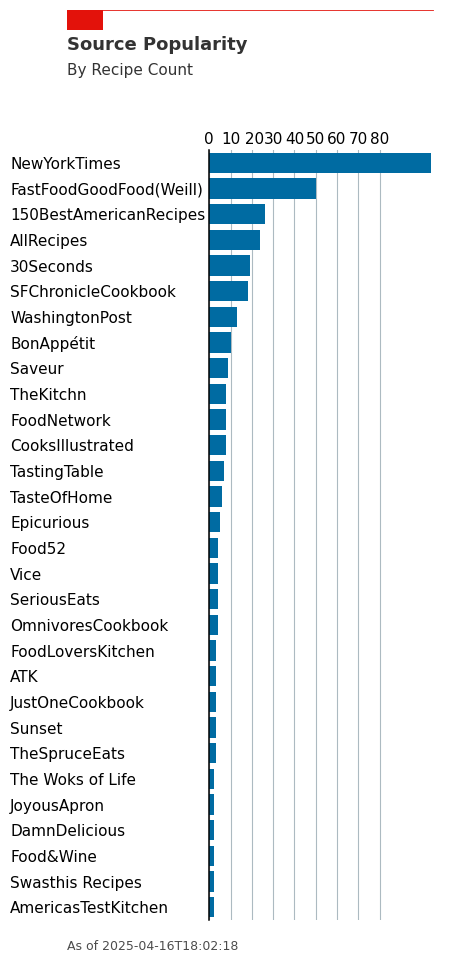
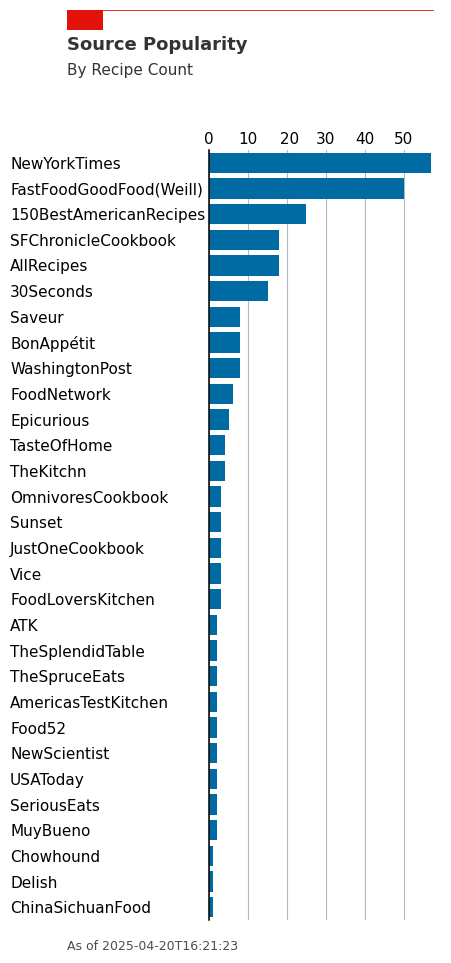
Add final edits obo segregated meta vs. file storage environments.

diff --git a/app/templates/main/hx/edit_field_file_.html b/app/templates/main/hx/edit_field_file_.html
@@ -18,8 +18,8 @@
 		<span class="file-icon"><i class="fas fa-upload"></i></span>
 	      </span>
 	      <span id="file-name" name="file-name" class="file-name is-large mr-4 form-input">
-		# if document.file_:
-		{{ document.file_.fileName|default("", true) }}
+		# if document.filename:
+		{{ document.filename|default("", true) }}
 		# endif
 	      </span>
 	    </label>

diff --git a/app/blueprints/main/operations.py b/app/blueprints/main/operations.py
@@ -8,7 +8,9 @@ from collections.abc import Callable
 from datetime import datetime
 from functools import reduce
 
+from botocore.exceptions import ClientError
 from bson.objectid import ObjectId
+from flask import current_app
 from mongoengine.context_managers import switch_collection
 from mongoengine.queryset.queryset import QuerySet
 from mongoengine.queryset.visitor import QCombination
@@ -104,102 +106,24 @@ def _search_by_tag(user: User, search: str) -> list[ObjectId]:
     return [doc.id for doc in partials]
 
 
-def update_doc_from_form(request, document: Documents) -> tuple[Documents, bool]:
-    """Update the document attributes from the flask form in the request, returning the doc and changed flag."""
-    form_document_attrs = (
-        (None, "title"),
-        (None, "notes"),
-        (None, "source"),
-        (None, "url_"),
-        ("to_list", "tags"),
-        ("to_int", "quality"),
-        ("to_int", "complexity"),
-    )
-
-    # Get Flask's packaging of the inbound form
-    form = request.form
-
-    # Start on the assumption that NO attribute have actually changed...
-    changed = False
-
-    # Handle all the "simple" attributes on a generic basis..
-    for conversion, attr in form_document_attrs:
-        curr_value = getattr(document, attr)  # Value in the current document, ie. in db.
-        form_value = form.get(attr)  # Value coming back from the form.
-        if conversion == "to_int":
-            form_value = int(form_value)
-        elif conversion == "to_list":
-            form_value = [x.strip().title() for x in form_value.split(",")]
-
-        ################################################################################
-        # Case 1: Have both a form_value and current document value
-        #         -> Check for match and update if necessary
-        ################################################################################
-        if form_value and curr_value:
-            if form_value != curr_value:
-                changed = True
-                setattr(document, attr, form_value)
-                log.debug(f"{attr=} was updated to {form_value} (from {curr_value})")
-
-        ################################################################################
-        # Case 2: Have a new form_value but not current document value
-        #         -> Update document with new value.
-        ################################################################################
-        elif form_value and not curr_value:
-            changed = True
-            setattr(document, attr, form_value)
-            log.debug(f"{attr=} was newly set to {form_value}")
-
-        ################################################################################
-        # Case 3: Don't have a new form_value but do have a current document value
-        #         -> Update document value to None.
-        ################################################################################
-        elif not form_value and curr_value:
-            changed = True
-            setattr(document, attr, None)
-            log.debug(f"{attr=} was cleared")
-
-        # Case 4: Don't have a new form_value and don't have a current document value
-        #         -> Do Nothing!
-        else:
-            assert not form_value and not curr_value, f"Sorry, unhandled case: {form_value=} {curr_value=}"
-
-    #################
-    # Special cases #
-    #################
-    # Last cooked date onto list.."
-    if form.get("last_cooked"):
-        dt_last_cooked = datetime.strptime(form.get("last_cooked"), "%Y-%m-%d")
-        if dt_last_cooked not in document.dates_cooked:
-            log.debug(f"attr=last_cooked was appended to with {dt_last_cooked}")
-            document.dates_cooked.append(dt_last_cooked)
-            changed = True
-
-    # Did we get a new file to upload?
-    if file := request.files["file_"]:
-        filename = secure_filename(file.filename)  # Important! cleanse to remove bad characters!
-        mime_type, _ = mimetypes.guess_type(filename)
-        log.debug(
-            f"Saving a new file: {filename=} with {mime_type=}!"
-            if document.file_
-            else f"Replacing existing file {document.file_.filename=} with: {filename=}!"
-        )
-        document.file_.replace(file, fileName=filename, contentType=mime_type)
-        changed = True
-
-    return document, changed
-
-
-def delete_document(user: User, id_: str) -> None:
+def delete_document(app, user: User, id_: str) -> None:
     """Delete the document with specified id for the specified user."""
     with switch_collection(Documents, Documents.as_user(user)) as user_documents:
         document = user_documents.objects(id=id_)[0]
-        if document.file_:
-            document.file_.delete()
+        s_doc_id = str(document.id)
+        try:
+            storage_handle = app.config["STORAGE_FILE"]
+            storage_bucket = app.config["storage_file_bucket"]
+            args = {"Bucket": storage_bucket, "Key": s_doc_id}
+            storage_handle.head_object(**args)
+            storage_handle.delete_object(**args)
+        except ClientError as e:
+            if e.response["Error"]["Code"] != "404":
+                log.error(f"Error deleting object {s_doc_id} from bucket {storage_bucket}: {e}!")
         document.delete()
 
 
-def update_document_attribute(document: Documents, field: str, request) -> [Documents, str | None]:
+def update_document_attribute(app, document: Documents, field: str, request) -> [Documents, str | None]:
     """Update the specified field attribute of the document request.form the specified request.form."""
     error_msg = None
     match field:
@@ -223,10 +147,14 @@ def update_document_attribute(document: Documents, field: str, request) -> [Docu
         # Special Handling: File upload
         ##############################
         case "file_":
+            # Yes, there's no error handling here....sue me
             file = request.files["file_"]
-            filename = secure_filename(file.filename)  # Important! cleanse to remove bad characters!
-            mime_type, _ = mimetypes.guess_type(filename)
-            document.file_.replace(file, fileName=filename, contentType=mime_type)
+            document.filename = secure_filename(file.filename)  # Important! cleanse to remove bad characters!
+            document.filesize = get_file_size(file)
+            document.mimetype = mimetypes.guess_type(document.filename)[0]
+            app.config["STORAGE_FILE"].upload_fileobj(
+                file.stream, current_app.config["storage_file_bucket"], str(document.id)
+            )
 
         ##############################
         # Special Attribute: List of string obo Tag
@@ -292,6 +220,22 @@ def _update_document_dates_cooked(document: Documents, request) -> [Documents, s
 ################################################################################
 # Utility methods
 ################################################################################
+def get_file_size(file_handle) -> int:
+    # Remember the current position
+    current_position = file_handle.tell()
+
+    # Seek to the end of the file
+    file_handle.seek(0, 2)  # 2 means "from the end"
+
+    # Get the position of the end of the file (which is the size)
+    size = file_handle.tell()
+
+    # Return to the original position
+    file_handle.seek(current_position)
+
+    return size
+
+
 def _sort(user: User, documents: list[Documents]) -> tuple[list[Documents], dict]:
     """Return both a sorted list of documents by current cookies and sort-indicator status."""
     sort: Sort = Sort.factory_from_user(user)  # Unpack the sort info from user state.

diff --git a/app/blueprints/main/routes.py b/app/blueprints/main/routes.py
@@ -179,27 +179,26 @@ def route_view_document(doc_id: str, url: str = "main.render_display") -> Respon
     with switch_collection(Documents, Documents.as_user(fl.current_user)) as user_documents:
         document = user_documents.objects(id=doc_id)[0]
 
-    if document.file_:
-        file_contents = document.file_.read()
-        contents: BytesIO = BytesIO(file_contents)
-        name: str = f"{doc_id}.pdf"
-        mimetype: str = document.file_.contentType
-        return send_file(contents, download_name=name, mimetype=mimetype)
+    # Do we think we have a document to display?
+    if not document.filename:
+        # No, do we have a url instead?
+        if document.url_:
+            # Yes, go there..
+            return redirect(document.url_)
+        # Otherwise, stay here..
+        return redirect(url_for(url))
 
-    else:
-        storage = current_app.config["STORAGE_FILE"]
-        bucket_name: str = current_app.config["storage_file_bucket"]
-        contents: BytesIO = BytesIO()
-        download_name: str = f"{doc_id}.pdf"
-        try:
-            storage.download_fileobj(bucket_name, doc_id, contents)
-            contents.seek(0)
-            return send_file(contents, download_name=download_name, mimetype=document.mimetype)
-        except ClientError:
-            if document.url_:
-                return redirect(document.url_)
-            # Really give up!
-            log.error("Sorry, document without either PDF file OR a link?")
+    # Ok, we *SHOULD* have a file, pull it and see..
+    storage = current_app.config["STORAGE_FILE"]
+    bucket_name: str = current_app.config["storage_file_bucket"]
+    contents: BytesIO = BytesIO()
+    download_name: str = f"{doc_id}.pdf"
+    try:
+        storage.download_fileobj(bucket_name, doc_id, contents)
+        contents.seek(0)
+        return send_file(contents, download_name=download_name, mimetype=document.mimetype)
+    except ClientError:
+        log.error(f"Sorry, unable to pull document {document.filename}[{document.id!s}] from storage.")
 
     return redirect(url_for(url))
 
@@ -210,7 +209,7 @@ def route_view_document(doc_id: str, url: str = "main.render_display") -> Respon
 @log_route(path="/document/delete")
 def render_delete_document(url: str = "main.render_display") -> Response:
     """Delete the specified Document."""
-    delete_document(fl.current_user, request.values["doc_id"])
+    delete_document(current_app, fl.current_user, request.values["doc_id"])
     return redirect(url_for(url))
 
 
@@ -222,7 +221,7 @@ def render_delete_documents(url: str = "main.render_display") -> Response:
     """Delete the specified Documents."""
     doc_ids = request.values["doc_ids"]
     for doc_id in doc_ids.split("|"):
-        delete_document(fl.current_user, doc_id)
+        delete_document(current_app, fl.current_user, doc_id)
     return redirect(url_for(url))
 
 
@@ -282,7 +281,7 @@ def hx_edit_field(field: str, doc_id: str) -> Response:
         document = user_documents.objects(id=doc_id)[0]
 
         # Update the specified field in the document based on the inbound request, get doc and optional error msg
-        document, error_msg = update_document_attribute(document, field, request)
+        document, error_msg = update_document_attribute(current_app, document, field, request)
 
     return_args = {
         "document": document,

diff --git a/app/cli/transfer_pdfs_to_wasabi.py b/app/cli/transfer_pdfs_to_wasabi.py
@@ -2,12 +2,15 @@
 """Import a set of pdf's, in 2 passes."""
 
 import argparse
+import mimetypes
 import os
 import time
 from pathlib import Path
 
 import boto3
+from botocore.exceptions import ClientError
 from mongoengine.context_managers import switch_collection
+from werkzeug.utils import secure_filename
 
 import app.constants as c
 from app import create_app
@@ -21,8 +24,8 @@ def get_wasabi_connection(app):
         "s3",
         endpoint_url="https://s3.us-west-1.wasabisys.com",
         region_name="us-east-1",
-        aws_access_key_id=app.config["wasabi_access_key_id"],
-        aws_secret_access_key=app.config["wasabi_secret_access_key"],
+        aws_access_key_id=app.config["storage_file_access_key_id"],
+        aws_secret_access_key=app.config["storage_file_secret_access_key"],
     )
     print("Connected to wasabi...")
     return wasabi
@@ -49,22 +52,40 @@ def get_pdf_from_mongo(document: Documents) -> Path:
 
 def push_file_to_wasabi(wasabi, document: Documents, file_path: Path) -> bool:
     # Open file in binary mode and read all content
-    bucket_name = "coctione-libri-development"
-    object_key = file_path.stem
-    print(f"Pushing {file_path} to wasabi...")
+    storage_bucket = "coctione-libri-development"
+    print(f"Pushing  {file_path} to wasabi.")
     try:
-        wasabi.upload_file(file_path, bucket_name, object_key)
+        wasabi.upload_file(file_path, storage_bucket, str(document.id))
+
+        document.filename = file_path.stem
+        document.filesize = os.path.getsize(file_path)
+        document.mimetype = mimetypes.guess_type(secure_filename(file_path.stem))[0]
+        document.save()
         return True
     except Exception as exc:
         print(f"Upload failed: {exc=}")
         return False
 
 
+def file_in_wasabi(wasabi, document: Documents) -> bool:
+    storage_bucket = "coctione-libri-development"
+    args = {"Bucket": storage_bucket, "Key": str(document.id)}
+    try:
+        wasabi.head_object(**args)
+        return True
+    except ClientError:
+        return False
+
+
 def transfer_document(wasabi, document: Documents) -> bool:
     """..."""
     if file_path := get_pdf_from_mongo(document):
-        if push_file_to_wasabi(wasabi, document, file_path):
-            clear_pdf_from_mongo(document)
+        if not file_in_wasabi(wasabi, document):
+            if push_file_to_wasabi(wasabi, document, file_path):
+                ...
+                # clear_pdf_from_mongo(document)
+        else:
+            print(f"SKIPPING {file_path}.")
 
     return True
 
@@ -88,7 +109,6 @@ def main(args: argparse.Namespace):
             for document in documents:
                 if document.file_:  # Just to make sure, there ARE some empties or those we've already done. :-)
                     transfer_document(wasabi, document)
-                break
                 time.sleep(0.5)
 
 

diff --git a/app/models/documents.py b/app/models/documents.py
@@ -7,6 +7,7 @@ import humanize
 from mongoengine import (
     DateTimeField,
     FileField,
+    IntField,
     ListField,
     ReferenceField,
     SortedListField,
@@ -93,7 +94,9 @@ class Documents(MongoEngine_Document):
     ################################################################################
     # Generic (but optional) "document" fields, ie. common across all document categories:
     file_        = FileField()                                 # MongoDB GridFS link to actual pdf/file content
-    mimetype     = StringField(default="application/pdf")      # e.g. application/pdf etc.
+    filename     = StringField()                               # (stem) Name of the file provided/stored (if any)
+    filesize     = IntField(default=0)                         # Size of the file provided/stored (if any) in bytes
+    mimetype     = StringField(default="application/pdf")      # Mimetype of the file provided/stored (if any)
     notes        = StringField()                               # "Notes" in MD format
     source       = StringField()                               # Logical source of doc, e.g. NY, FN, etc.
     tags         = SortedListField(StringField(max_length=50)) # List of tags in "Titled" display format
@@ -157,7 +160,7 @@ class Documents(MongoEngine_Document):
     def filesize_display(self) -> str | None:
         """Return the filesize of the current document in human-readable format (if file_ defined)."""
         if self.file_:
-            return humanize.naturalsize(self.file_.length)
+            return humanize.naturalsize(self.filesize)
         return ""
 
     @property

diff --git a/app/__init__.py b/app/__init__.py
@@ -116,9 +116,6 @@ def _create_app_connections(application: Flask) -> Flask:
     ################################################################################
     vendor = application.config["storage_meta_vendor"]
     app_db_settings = application.config["storage_meta_url"]
-    # application.config["MONGODB_SETTINGS"] = [
-    #     {"host": app_db_settings, "alias": "default"},
-    # ]
     connect(host=app_db_settings)
     db_name = app_db_settings.split("?")[0].split("/")[-1]
     terminal_update(f"...connected to {vendor}: {db_name}")

diff --git a/app/blueprints/stats/operations.py b/app/blueprints/stats/operations.py
@@ -151,4 +151,4 @@ def top_files(user: User) -> list[Documents]:
             .only("id", "title", "file_")
             .limit(10)
         )
-    return sorted(docs, key=lambda doc: doc.file_.length, reverse=True)
+    return sorted(docs, key=lambda doc: doc.filesize, reverse=True)
